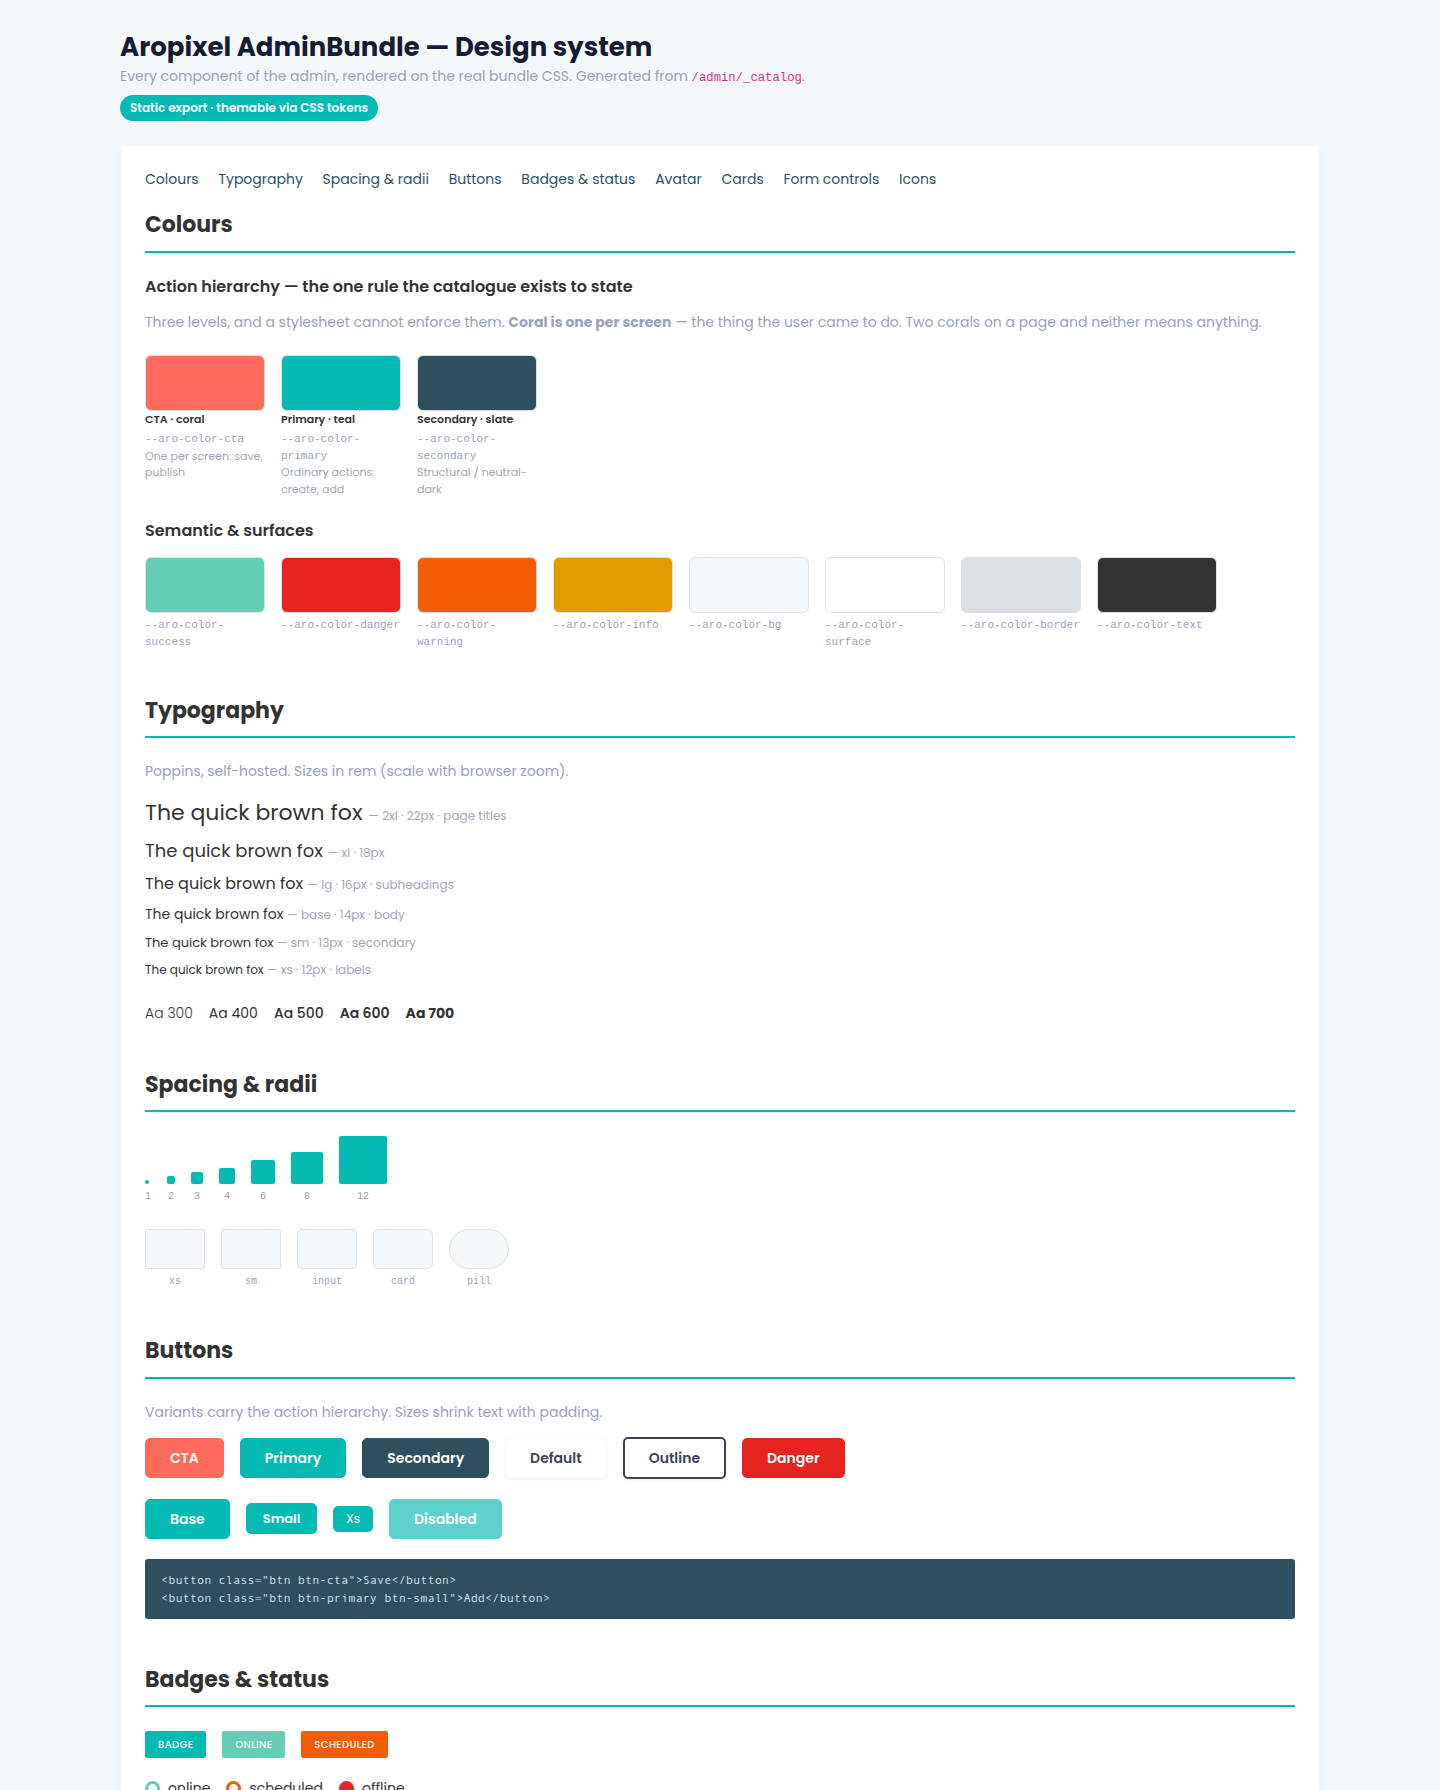
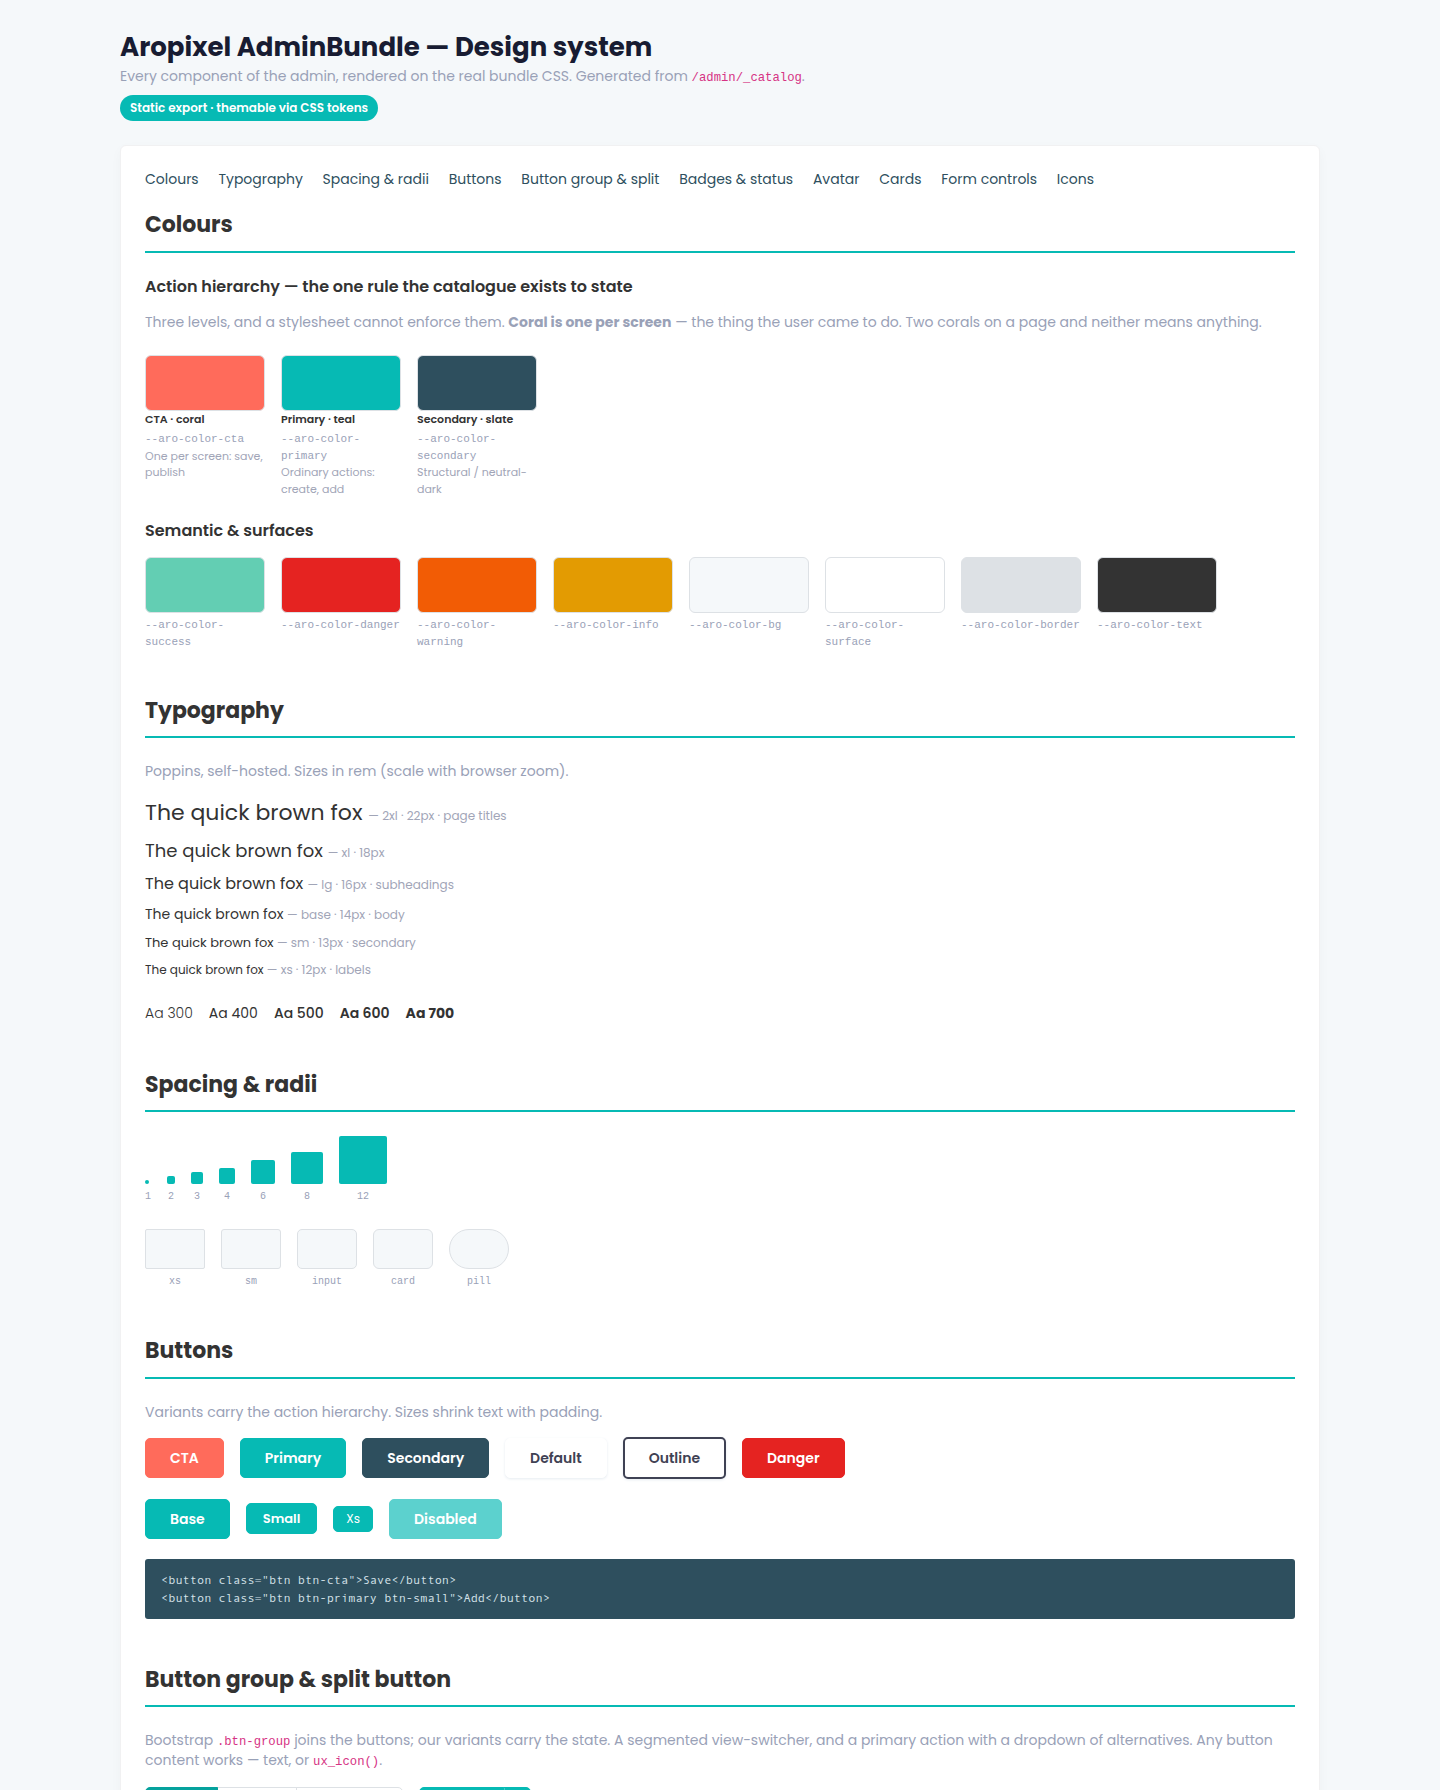
Add ButtonGroup and SplitButton components (Claude Design import)
Two button-family components from the "Aropixel Admin Design System" (§6c), both
dressing native Bootstrap patterns rather than reimplementing them:

- ButtonGroup (_button-group.css): segmented row / view-switcher on `.btn-group`.
  `.btn-default` gets a token border and loses its per-button shadow when joined, so
  the row reads as one control; the selected segment carries a filled variant.
- SplitButton (_split-button.css): primary action + `.dropdown-toggle-split` caret
  opening our dropdown menu. Adds only the inset hairline that divides the two halves
  on a filled variant, derived from --aro-color-text-inverted via color-mix (no raw
  colour, per the button-file conventions).

Catalogued in both the live route and the static export (new "Button group & split
button" section, TOC entry), preview re-shot. Ratchet unchanged (1/0/0/12), render
verified via the browser harness.

diff --git a/docs/catalog.html b/docs/catalog.html
@@ -1629,6 +1629,71 @@ button.fa-stack.danger .fa-stack-1x {
     box-shadow: var(--aro-shadow-soft);
 }
 
+/* ./components/_button-group.css */
+/**
+ * Button group — a segmented row of joined buttons (toolbar, view-switcher).
+ *
+ * The mechanics are Bootstrap's `.btn-group`: it lays the buttons inline, flattens the inner
+ * corners and overlaps their borders into shared 1px seams, and lifts the hovered/active one
+ * on the z-axis. This file adds only what the segmented *look* needs on top of our button
+ * variants (`_btn.css`, `_btn-variants.css`) — no new component, it dresses `.btn-group`.
+ *
+ * Markup:
+ *   <div class="btn-group" role="group" aria-label="View switcher">
+ *     <button type="button" class="btn btn-primary active">List</button>   {# selected #}
+ *     <button type="button" class="btn btn-default">Grid</button>
+ *     <button type="button" class="btn btn-default">Agenda</button>
+ *   </div>
+ */
+
+/*
+ * `.btn-default` rests on a white border by design — it must disappear on a card. Joined into
+ * a group it would then lose its segment dividers, so here the border becomes a token line,
+ * and the per-button soft shadow (which would double at every overlapping seam) is dropped:
+ * the row reads as one control, not a strip of cards.
+ */
+.btn-group > .btn-default {
+    --bs-btn-border-color: var(--aro-color-border);
+    --bs-btn-hover-border-color: var(--aro-color-border);
+    box-shadow: none;
+}
+
+/* The selected segment sits above its neighbours so its full border shows on both seams. */
+.btn-group > .btn.active {
+    z-index: 2;
+}
+
+/* ./components/_split-button.css */
+/**
+ * Split button — a primary action joined to a caret that opens more actions
+ * ("Save ▾ / Save and publish").
+ *
+ * The structure is Bootstrap's split-button dropdown: a `.btn-group` of the action button
+ * plus a `.dropdown-toggle.dropdown-toggle-split`; the menu is our `_dropdown.css`. This file
+ * adds only the hairline that reads as the divider on a filled variant, where the button's
+ * own border matches its fill and the overlapping seam would otherwise vanish.
+ *
+ * Markup:
+ *   <div class="btn-group">
+ *     <button type="button" class="btn btn-primary">Save</button>
+ *     <button type="button" class="btn btn-primary dropdown-toggle dropdown-toggle-split"
+ *             data-bs-toggle="dropdown" aria-expanded="false">
+ *       <span class="visually-hidden">More actions</span>
+ *     </button>
+ *     <ul class="dropdown-menu dropdown-menu-end"> … </ul>
+ *   </div>
+ */
+
+.btn-group > .dropdown-toggle-split {
+    /*
+     * A light inset hairline is the divider on a filled action (teal / coral / slate), where
+     * the button's border matches its background. On a light variant it stays imperceptible
+     * and the group's token border carries the seam instead. Derived from the inverted-text
+     * token (white) rather than a raw colour, per the button-file conventions.
+     */
+    box-shadow: inset 1px 0 0 color-mix(in srgb, var(--aro-color-text-inverted) 25%, transparent);
+}
+
 /* ./components/_card.css */
 /**
  * Card — the primary content surface.
@@ -4004,6 +4069,7 @@ body { background: var(--aro-color-bg); margin: 0; padding: 32px; }
             <a href="#type">Typography</a>
             <a href="#space">Spacing &amp; radii</a>
             <a href="#buttons">Buttons</a>
+            <a href="#button-group">Button group &amp; split</a>
             <a href="#badges">Badges &amp; status</a>
             <a href="#avatar">Avatar</a>
             <a href="#cards">Cards</a>
@@ -4183,6 +4249,35 @@ body { background: var(--aro-color-bg); margin: 0; padding: 32px; }
             </div>
             <div class="cat-snippet">&lt;button class="btn btn-cta"&gt;Save&lt;/button&gt;
 &lt;button class="btn btn-primary btn-small"&gt;Add&lt;/button&gt;</div>
+        </section>
+
+                <section class="cat-section" id="button-group">
+            <h2>Button group &amp; split button</h2>
+            <p style="color:var(--aro-color-text-muted)">Bootstrap <code>.btn-group</code> joins the buttons; our variants carry the state. A segmented view-switcher, and a primary action with a dropdown of alternatives. Any button content works — text, or <code>ux_icon()</code>.</p>
+            <div class="cat-row">
+                <div class="btn-group" role="group" aria-label="View switcher">
+                    <button type="button" class="btn btn-primary active" aria-pressed="true">List</button>
+                    <button type="button" class="btn btn-default" aria-pressed="false">Grid</button>
+                    <button type="button" class="btn btn-default" aria-pressed="false">Agenda</button>
+                </div>
+                <div class="btn-group">
+                    <button type="button" class="btn btn-primary">Save</button>
+                    <button type="button" class="btn btn-primary dropdown-toggle dropdown-toggle-split" data-bs-toggle="dropdown" aria-expanded="false"><span class="visually-hidden">More actions</span></button>
+                    <ul class="dropdown-menu dropdown-menu-end">
+                        <li><a class="dropdown-item" href="#">Save and publish</a></li>
+                        <li><a class="dropdown-item" href="#">Save as draft</a></li>
+                    </ul>
+                </div>
+            </div>
+            <div class="cat-snippet">&lt;div class="btn-group" role="group"&gt;
+  &lt;button class="btn btn-primary active"&gt;List&lt;/button&gt;
+  &lt;button class="btn btn-default"&gt;Grid&lt;/button&gt;
+&lt;/div&gt;
+&lt;div class="btn-group"&gt;
+  &lt;button class="btn btn-primary"&gt;Save&lt;/button&gt;
+  &lt;button class="btn btn-primary dropdown-toggle dropdown-toggle-split" data-bs-toggle="dropdown"&gt;&lt;/button&gt;
+  &lt;ul class="dropdown-menu dropdown-menu-end"&gt;…&lt;/ul&gt;
+&lt;/div&gt;</div>
         </section>
 
                 <section class="cat-section" id="badges">

diff --git a/docs/index.html b/docs/index.html
@@ -1629,6 +1629,71 @@ button.fa-stack.danger .fa-stack-1x {
     box-shadow: var(--aro-shadow-soft);
 }
 
+/* ./components/_button-group.css */
+/**
+ * Button group — a segmented row of joined buttons (toolbar, view-switcher).
+ *
+ * The mechanics are Bootstrap's `.btn-group`: it lays the buttons inline, flattens the inner
+ * corners and overlaps their borders into shared 1px seams, and lifts the hovered/active one
+ * on the z-axis. This file adds only what the segmented *look* needs on top of our button
+ * variants (`_btn.css`, `_btn-variants.css`) — no new component, it dresses `.btn-group`.
+ *
+ * Markup:
+ *   <div class="btn-group" role="group" aria-label="View switcher">
+ *     <button type="button" class="btn btn-primary active">List</button>   {# selected #}
+ *     <button type="button" class="btn btn-default">Grid</button>
+ *     <button type="button" class="btn btn-default">Agenda</button>
+ *   </div>
+ */
+
+/*
+ * `.btn-default` rests on a white border by design — it must disappear on a card. Joined into
+ * a group it would then lose its segment dividers, so here the border becomes a token line,
+ * and the per-button soft shadow (which would double at every overlapping seam) is dropped:
+ * the row reads as one control, not a strip of cards.
+ */
+.btn-group > .btn-default {
+    --bs-btn-border-color: var(--aro-color-border);
+    --bs-btn-hover-border-color: var(--aro-color-border);
+    box-shadow: none;
+}
+
+/* The selected segment sits above its neighbours so its full border shows on both seams. */
+.btn-group > .btn.active {
+    z-index: 2;
+}
+
+/* ./components/_split-button.css */
+/**
+ * Split button — a primary action joined to a caret that opens more actions
+ * ("Save ▾ / Save and publish").
+ *
+ * The structure is Bootstrap's split-button dropdown: a `.btn-group` of the action button
+ * plus a `.dropdown-toggle.dropdown-toggle-split`; the menu is our `_dropdown.css`. This file
+ * adds only the hairline that reads as the divider on a filled variant, where the button's
+ * own border matches its fill and the overlapping seam would otherwise vanish.
+ *
+ * Markup:
+ *   <div class="btn-group">
+ *     <button type="button" class="btn btn-primary">Save</button>
+ *     <button type="button" class="btn btn-primary dropdown-toggle dropdown-toggle-split"
+ *             data-bs-toggle="dropdown" aria-expanded="false">
+ *       <span class="visually-hidden">More actions</span>
+ *     </button>
+ *     <ul class="dropdown-menu dropdown-menu-end"> … </ul>
+ *   </div>
+ */
+
+.btn-group > .dropdown-toggle-split {
+    /*
+     * A light inset hairline is the divider on a filled action (teal / coral / slate), where
+     * the button's border matches its background. On a light variant it stays imperceptible
+     * and the group's token border carries the seam instead. Derived from the inverted-text
+     * token (white) rather than a raw colour, per the button-file conventions.
+     */
+    box-shadow: inset 1px 0 0 color-mix(in srgb, var(--aro-color-text-inverted) 25%, transparent);
+}
+
 /* ./components/_card.css */
 /**
  * Card — the primary content surface.
@@ -4004,6 +4069,7 @@ body { background: var(--aro-color-bg); margin: 0; padding: 32px; }
             <a href="#type">Typography</a>
             <a href="#space">Spacing &amp; radii</a>
             <a href="#buttons">Buttons</a>
+            <a href="#button-group">Button group &amp; split</a>
             <a href="#badges">Badges &amp; status</a>
             <a href="#avatar">Avatar</a>
             <a href="#cards">Cards</a>
@@ -4183,6 +4249,35 @@ body { background: var(--aro-color-bg); margin: 0; padding: 32px; }
             </div>
             <div class="cat-snippet">&lt;button class="btn btn-cta"&gt;Save&lt;/button&gt;
 &lt;button class="btn btn-primary btn-small"&gt;Add&lt;/button&gt;</div>
+        </section>
+
+                <section class="cat-section" id="button-group">
+            <h2>Button group &amp; split button</h2>
+            <p style="color:var(--aro-color-text-muted)">Bootstrap <code>.btn-group</code> joins the buttons; our variants carry the state. A segmented view-switcher, and a primary action with a dropdown of alternatives. Any button content works — text, or <code>ux_icon()</code>.</p>
+            <div class="cat-row">
+                <div class="btn-group" role="group" aria-label="View switcher">
+                    <button type="button" class="btn btn-primary active" aria-pressed="true">List</button>
+                    <button type="button" class="btn btn-default" aria-pressed="false">Grid</button>
+                    <button type="button" class="btn btn-default" aria-pressed="false">Agenda</button>
+                </div>
+                <div class="btn-group">
+                    <button type="button" class="btn btn-primary">Save</button>
+                    <button type="button" class="btn btn-primary dropdown-toggle dropdown-toggle-split" data-bs-toggle="dropdown" aria-expanded="false"><span class="visually-hidden">More actions</span></button>
+                    <ul class="dropdown-menu dropdown-menu-end">
+                        <li><a class="dropdown-item" href="#">Save and publish</a></li>
+                        <li><a class="dropdown-item" href="#">Save as draft</a></li>
+                    </ul>
+                </div>
+            </div>
+            <div class="cat-snippet">&lt;div class="btn-group" role="group"&gt;
+  &lt;button class="btn btn-primary active"&gt;List&lt;/button&gt;
+  &lt;button class="btn btn-default"&gt;Grid&lt;/button&gt;
+&lt;/div&gt;
+&lt;div class="btn-group"&gt;
+  &lt;button class="btn btn-primary"&gt;Save&lt;/button&gt;
+  &lt;button class="btn btn-primary dropdown-toggle dropdown-toggle-split" data-bs-toggle="dropdown"&gt;&lt;/button&gt;
+  &lt;ul class="dropdown-menu dropdown-menu-end"&gt;…&lt;/ul&gt;
+&lt;/div&gt;</div>
         </section>
 
                 <section class="cat-section" id="badges">

diff --git a/src/Resources/public/css/components/_button-group.css b/src/Resources/public/css/components/_button-group.css
@@ -1,0 +1,32 @@
+/**
+ * Button group — a segmented row of joined buttons (toolbar, view-switcher).
+ *
+ * The mechanics are Bootstrap's `.btn-group`: it lays the buttons inline, flattens the inner
+ * corners and overlaps their borders into shared 1px seams, and lifts the hovered/active one
+ * on the z-axis. This file adds only what the segmented *look* needs on top of our button
+ * variants (`_btn.css`, `_btn-variants.css`) — no new component, it dresses `.btn-group`.
+ *
+ * Markup:
+ *   <div class="btn-group" role="group" aria-label="View switcher">
+ *     <button type="button" class="btn btn-primary active">List</button>   {# selected #}
+ *     <button type="button" class="btn btn-default">Grid</button>
+ *     <button type="button" class="btn btn-default">Agenda</button>
+ *   </div>
+ */
+
+/*
+ * `.btn-default` rests on a white border by design — it must disappear on a card. Joined into
+ * a group it would then lose its segment dividers, so here the border becomes a token line,
+ * and the per-button soft shadow (which would double at every overlapping seam) is dropped:
+ * the row reads as one control, not a strip of cards.
+ */
+.btn-group > .btn-default {
+    --bs-btn-border-color: var(--aro-color-border);
+    --bs-btn-hover-border-color: var(--aro-color-border);
+    box-shadow: none;
+}
+
+/* The selected segment sits above its neighbours so its full border shows on both seams. */
+.btn-group > .btn.active {
+    z-index: 2;
+}

diff --git a/src/Resources/public/css/components/_split-button.css b/src/Resources/public/css/components/_split-button.css
@@ -1,0 +1,29 @@
+/**
+ * Split button — a primary action joined to a caret that opens more actions
+ * ("Save ▾ / Save and publish").
+ *
+ * The structure is Bootstrap's split-button dropdown: a `.btn-group` of the action button
+ * plus a `.dropdown-toggle.dropdown-toggle-split`; the menu is our `_dropdown.css`. This file
+ * adds only the hairline that reads as the divider on a filled variant, where the button's
+ * own border matches its fill and the overlapping seam would otherwise vanish.
+ *
+ * Markup:
+ *   <div class="btn-group">
+ *     <button type="button" class="btn btn-primary">Save</button>
+ *     <button type="button" class="btn btn-primary dropdown-toggle dropdown-toggle-split"
+ *             data-bs-toggle="dropdown" aria-expanded="false">
+ *       <span class="visually-hidden">More actions</span>
+ *     </button>
+ *     <ul class="dropdown-menu dropdown-menu-end"> … </ul>
+ *   </div>
+ */
+
+.btn-group > .dropdown-toggle-split {
+    /*
+     * A light inset hairline is the divider on a filled action (teal / coral / slate), where
+     * the button's border matches its background. On a light variant it stays imperceptible
+     * and the group's token border carries the seam instead. Derived from the inverted-text
+     * token (white) rather than a raw colour, per the button-file conventions.
+     */
+    box-shadow: inset 1px 0 0 color-mix(in srgb, var(--aro-color-text-inverted) 25%, transparent);
+}

diff --git a/src/Resources/public/css/style.css b/src/Resources/public/css/style.css
@@ -30,6 +30,8 @@
 
 @import url("./components/_btn.css");
 @import url("./components/_btn-variants.css");
+@import url("./components/_button-group.css");
+@import url("./components/_split-button.css");
 @import url("./components/_card.css");
 @import url("./components/_dropdown.css");
 @import url("./components/_media-library.css");
